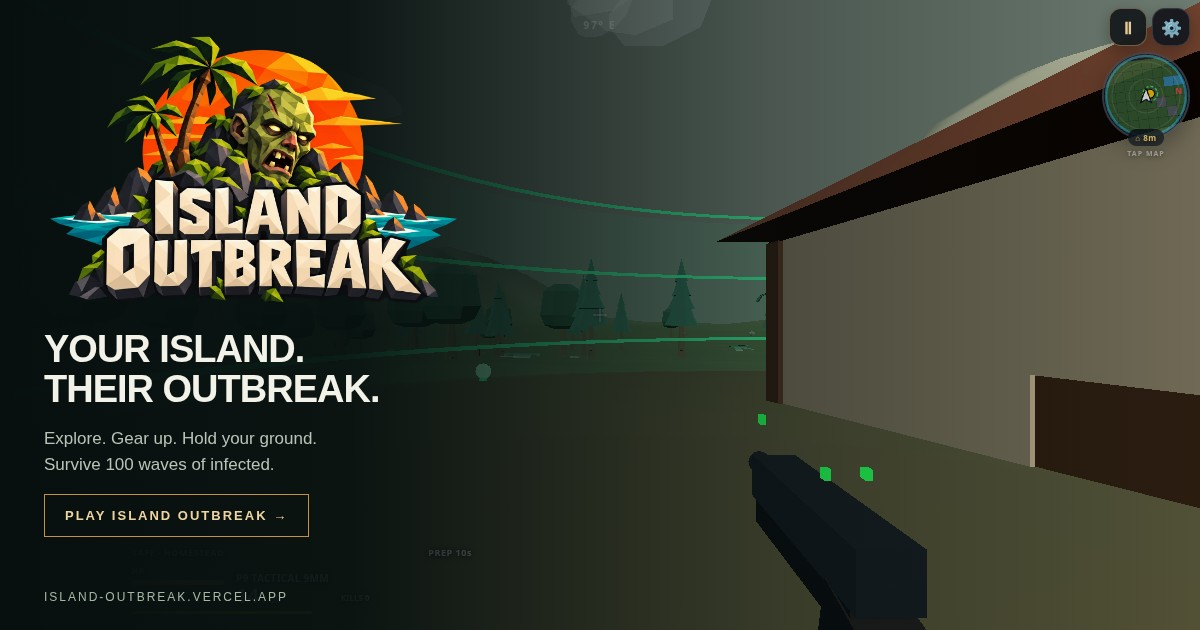
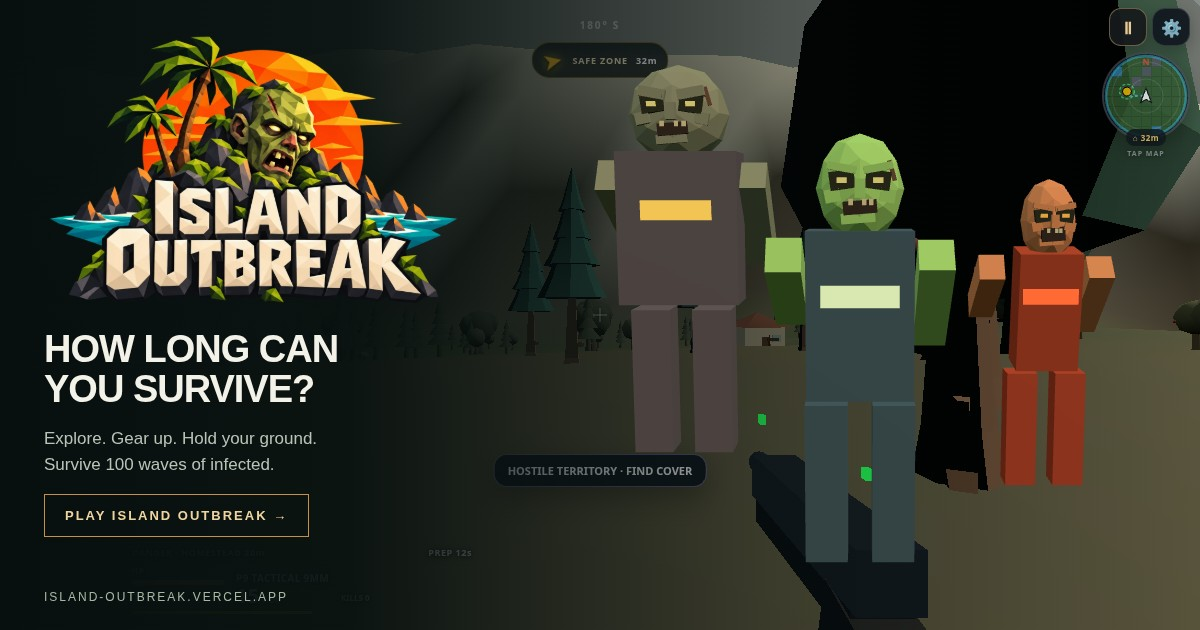
Update survival tagline and stage infected in share artwork

diff --git a/index.html b/index.html
@@ -8,17 +8,17 @@
     <title>Island Outbreak · Zombie Survival</title>
     <meta name="description" content="Survive 100 waves on a ruined island. Fight evolving infected, hold safe zones, and build your loadout." />
     <meta property="og:title" content="Island Outbreak · Zombie Survival" />
-    <meta property="og:description" content="Explore a low-poly island. Face the infected. Survive 100 waves." />
+    <meta property="og:description" content="How long can you survive? Face the infected on a low-poly island." />
     <meta property="og:type" content="website" />
     <meta property="og:url" content="https://island-outbreak.vercel.app/" />
-    <meta property="og:image" content="https://island-outbreak.vercel.app/branding/island-outbreak-share.jpg" />
+    <meta property="og:image" content="https://island-outbreak.vercel.app/branding/island-outbreak-share.jpg?v=2" />
     <meta property="og:image:width" content="1200" />
     <meta property="og:image:height" content="630" />
     <meta property="og:image:alt" content="Island Outbreak: low-poly island survival gameplay" />
     <meta name="twitter:card" content="summary_large_image" />
     <meta name="twitter:title" content="Island Outbreak · Zombie Survival" />
-    <meta name="twitter:description" content="Explore a low-poly island. Face the infected. Survive 100 waves." />
-    <meta name="twitter:image" content="https://island-outbreak.vercel.app/branding/island-outbreak-share.jpg" />
+    <meta name="twitter:description" content="How long can you survive? Face the infected on a low-poly island." />
+    <meta name="twitter:image" content="https://island-outbreak.vercel.app/branding/island-outbreak-share.jpg?v=2" />
     <link rel="preload" as="image" href="/branding/island-outbreak-logo.webp" />
     <style id="critical-display-gate">
       html, body { width: 100%; height: 100%; min-height: 100%; margin: 0; overflow: hidden; background: #07100f; }
@@ -61,7 +61,7 @@
   <body class="launch-active">
     <div id="launchSplash" role="status" aria-label="Opening Island Outbreak">
       <img src="/branding/island-outbreak-logo.webp" width="1536" height="1024" alt="Island Outbreak" fetchpriority="high" />
-      <p>YOUR ISLAND. THEIR OUTBREAK.</p>
+      <p>HOW LONG CAN YOU SURVIVE?</p>
       <div class="launchTrack" aria-hidden="true"><span></span></div>
     </div>
     <script>

diff --git a/AGENT_CHANGELOG.md b/AGENT_CHANGELOG.md
@@ -1117,3 +1117,6 @@ Reworked procedural infected faces with dark eye sockets, heavy brows, noses, ch
 
 ### October 11 branding and sharing
 Implemented the approved low-poly infected-face logo as a compressed transparent WebP on a dark green, amber-accented eight-second launch introduction. The timer describes branding duration rather than asset progress; reduced-motion preference disables its motion. Fixed critical fullscreen-gate visibility exclusion for the introduction. Added absolute Open Graph/Twitter image URLs and a 1200x630 share card made from an actual local gameplay screenshot with logo/site styling. Local Chromium/SwiftShader verified visible intro, removal after eight seconds, fullscreen transition and playable run without page errors; production build passed. Persistence scope reviewed: account HUD/progression/upgrades/records/wildcards sync, device settings stay local and in-progress combat does not resume from cloud.
+
+### October 11 survival sharing artwork revision
+Changed launch/share tagline to “How Long Can You Survive?” Updated sharing artwork with the actual procedural walker, runner and brute models staged facing the viewer over a real gameplay screenshot, as requested. This is composed promotional artwork, not an unstaged combat capture. Temporary local staging hook was removed before production build. Updated social image URL version to allow crawlers to fetch the new card. Visual inspection and production build passed.
